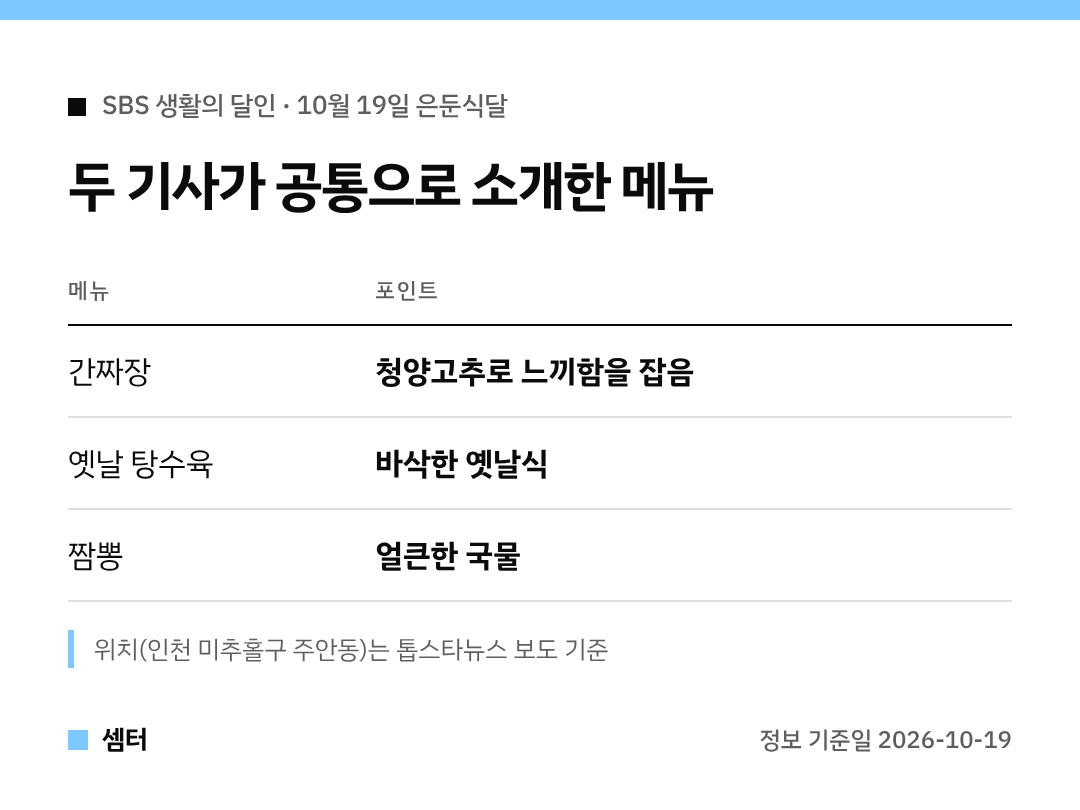
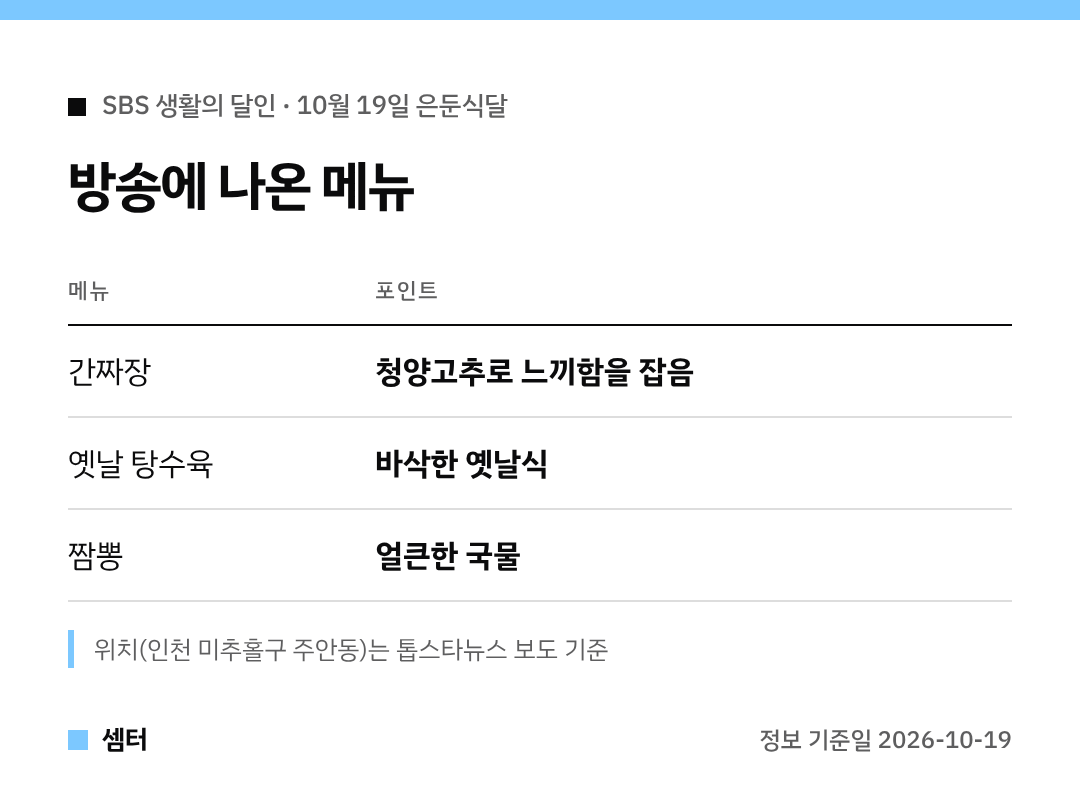
규칙: 검증 과정 설명은 본문에 쓰지 않음 — 기존 방송 맛집 초안에서 해당 문장 정리
Claude-Session: https://claude.ai/code/session_012VYbtjGNz4qxZrnismb5GY

Changed region(s): [[0.0611, 0.1852, 0.6722, 0.2778]]

diff --git a/automation/prompts/writing-guide.md b/automation/prompts/writing-guide.md
@@ -56,7 +56,8 @@
 - **쓰지 않을 것**: 방송 화면 캡처, 기사 사진, 맛 평가("진짜 맛있어요"), 가 본 척, 기사 문장 그대로 베끼기(사실만 우리 말로). 가게 전화번호는 기사 2곳에 같게 나온 경우만.
 - 이미지는 정보 카드(방송일·가게 목록 표)만.
 - **블로그 확인**: 기사에 가게 이름·위치가 없으면 블로그 후기도 찾아본다. 레이더가 방송 맛집마다 네이버 블로그 상위 글을 수집본(`kind: blog`)으로 받아 두고, 더 필요하면 `automation/state/fetch_requests.txt`에 `blog: <지역> <메뉴> <프로그램명>` 한 줄을 넣는다. 블로그는 **기사와 짝지어** 교차 확인에 쓴다(블로그끼리는 같은 출처로 본다). 가게 이름이 기사엔 없고 블로그에만 있으면, 서로 다른 블로거 2명 이상이 같은 이름을 적고 지역·메뉴가 기사와 같을 때만 쓰고 본문에 '블로그 후기 기준'을 밝힌다(claims: quote=블로그, quote2=기사, value_note 에 일치한 블로그 목록). 블로그마다 주소가 다르면 주소는 쓰지 않는다. 협찬·광고 표시 글, 방송 전 날짜 글은 쓰지 않는다. 블로그 문장은 베끼지 않고 사실만 쓴다.
-- **위치를 못 찾았으면 장소를 올리지 않는다**: 가게 이름과 위치가 확인된 가게만 지도 링크를 단다. "지역 + 메뉴" 검색 링크는 달지 않는다(본문에 보도된 지역을 설명하는 건 괜찮다). 확인이 안 되면 그 가게는 지도 링크 없이 "가게 이름은 아직 확인되지 않았어요"로 두거나 글에서 뺀다.
+- **위치를 못 찾았으면 장소를 올리지 않는다**: 가게 이름과 위치가 확인된 가게만 지도 링크를 단다. "지역 + 메뉴" 검색 링크는 달지 않는다(본문에 보도된 지역을 설명하는 건 괜찮다). 확인이 안 되면 그 가게는 이름·지도 없이 지역·메뉴만 쓰거나 글에서 뺀다("확인되지 않았어요" 같은 설명도 쓰지 않는다).
+- **검증 과정은 본문에 쓰지 않는다**: 무엇을 확인 못 했는지, 어느 기사가 무엇을 안 적었는지, 왜 장소를 안 올렸는지는 쓰지 않는다(로그에만 남긴다). 출처는 "○○ 보도 기준" / "블로그 후기 기준"처럼 짧게만.
 - **지도 링크**: 확인된 가게마다 `python3 automation/scripts/map_link.py "<지역> <가게 이름>"`으로 만든 링크를 넣는다. 네이버판은 `[📍 네이버 지도에서 위치 보기](네이버 지도 주소)`, 티스토리판은 카카오맵 주소. 지도 화면 캡처는 넣지 않는다(지도 이미지 저작권).
 - **가게 사진**: 리뷰·블로그·기사 사진은 찍은 사람에게 저작권이 있어서 가져오지 않는다. 대신 발행할 때 네이버 에디터의 **[장소]** 버튼(티스토리는 **[지도]**)으로 가게를 첨부하면 지도·대표 사진·리뷰 링크가 카드로 함께 들어간다. 대기함 카드에 첨부할 가게 이름이 나온다.
 - **가게 이름**: 지역·메뉴는 두 곳 교차 확인이 기본. 이름이 한 매체에만 나오면 "OO 보도 기준 가게 이름은 '…'"처럼 출처를 밝혀 쓴다.

diff --git a/automation/variants/master-life-20261019.tistory.md b/automation/variants/master-life-20261019.tistory.md
@@ -9,7 +9,7 @@ cards:
   t-menu:
     type: table
     kicker: "SBS 생활의 달인 · 10월 19일 은둔식달"
-    title: "두 기사가 공통으로 소개한 메뉴"
+    title: "방송에 나온 메뉴"
     head: ["메뉴", "포인트"]
     rows: [["간짜장", "청양고추로 느끼함을 잡음"], ["옛날 탕수육", "바삭한 옛날식"], ["짬뽕", "얼큰한 국물"]]
     note: "위치(인천 미추홀구 주안동)는 톱스타뉴스 보도 기준"
@@ -21,23 +21,23 @@ sources:
 ---
 간짜장에 청양고추라니, 이 조합 궁금하지 않으세요? 10월 19일 생활의 달인 은둔식달에 나온 인천 노포 중식당 이야기를 모아 봤어요~
 
-![두 기사가 공통으로 소개한 메뉴 표](/assets/cards/master-life-20261019-t-menu.png)
+![방송에 나온 메뉴 표](/assets/cards/master-life-20261019-t-menu.png)
 
 ## 간짜장, 일반 짜장이랑 뭐가 달라요?
 
 간짜장은 물이나 전분물 없이 춘장과 채소를 바로 볶아서 소스를 면과 따로 내 주는 짜장이에요. 그래서 소스가 더 진하고 고소한 편이랍니다.
 
-이번 달인 간짜장은 여기에 청양고추를 더해 느끼함을 잡은 게 특징이에요. 비즈엔터와 톱스타뉴스 두 기사 모두 이 부분을 짚었어요.
+이번 달인 간짜장은 여기에 청양고추를 더해 느끼함을 잡은 게 특징이에요.
 
 ## 같이 나온 메뉴
 
-옛날 탕수육은 바삭한 식감을 살린 옛날식이고, 얼큰한 짬뽕도 함께 소개됐어요. 기본에 충실한 중화요리를 하는 노포라는 평이 공통으로 나왔어요.
+옛날 탕수육은 바삭한 식감을 살린 옛날식이고, 얼큰한 짬뽕도 함께 소개됐어요. 기본에 충실한 중화요리를 하는 노포로 소개됐어요.
 
 ## 어디에 있나요?
 
-비즈엔터는 '인천'까지만, 톱스타뉴스는 인천 미추홀구 주안동이라고 보도했어요. 톱스타뉴스 기준으로는 44년 된 집이래요.
+톱스타뉴스 보도 기준으로 인천 미추홀구 주안동에 있는 44년 된 집이래요.
 
-기사엔 상호가 없지만, 방송 후기 블로그 여러 곳에 '홍성각'이라고 나와 있어요 😊 블로그 후기 기준이니 가기 전에 지도에서 메뉴를 한 번 확인해 보세요.
+상호는 '홍성각'이에요(블로그 후기 기준) 😊 가기 전에 지도에서 한 번 확인해 보세요.
 
 [📍 카카오맵 · 인천 주안 홍성각](https://map.kakao.com/?q=%EC%9D%B8%EC%B2%9C%20%EC%A3%BC%EC%95%88%20%ED%99%8D%EC%84%B1%EA%B0%81)
 

diff --git a/_drafts/saengsaeng-info-20261020.md b/_drafts/saengsaeng-info-20261020.md
@@ -30,9 +30,9 @@ sources:
 
 '가격파괴 Why' 코너에서는 서울 강북구 수유역 근처 돼지갈비집이 나왔어요. 국내산 돼지 양념갈비를 1인분 400g으로 넉넉하게 내주는 곳이에요.
 
-bnt뉴스 보도 기준 가격은 1인분 13,900원이래요. 톱스타뉴스는 가격을 '(?)원'으로 비워 둬서, 가격은 가기 전에 한 번 더 확인해 보시는 게 좋아요!
+bnt뉴스 보도 기준 가격은 1인분 13,900원이래요. 가격은 바뀔 수 있으니 가기 전에 확인해 보세요!
 
-가게 이름은 두 기사에 안 나왔는데요, 방송 후기를 올린 블로그들을 보니 수유동 '백로참숯구이'로 확인돼요(블로그 후기 기준). 여러 블로그가 같은 이름을 적었고, 지역·메뉴도 기사와 같았어요.
+가게 이름은 수유동 '백로참숯구이'예요(블로그 후기 기준).
 
 [📍 네이버 지도에서 백로참숯구이 보기](https://map.naver.com/p/search/%EC%84%9C%EC%9A%B8%20%EA%B0%95%EB%B6%81%EA%B5%AC%20%EB%B0%B1%EB%A1%9C%EC%B0%B8%EC%88%AF%EA%B5%AC%EC%9D%B4)
 
@@ -40,9 +40,9 @@ bnt뉴스 보도 기준 가격은 1인분 13,900원이래요. 톱스타뉴스는
 
 가을 여행지로는 경북 문경이 나왔어요. 문경새재 도립공원 옛길을 걷고, 문경관광사격장에서 사격 체험, 진남역에서 철로자전거까지 타는 코스예요. 단풍철이라 딱이죠 🍁
 
-식사한 곳은 톱스타뉴스 보도에 따르면 문경 점촌동의 족살찌개집이에요. bnt뉴스는 '문경의 한 식당'이라고만 적었어요.
+식사한 곳은 톱스타뉴스 보도 기준 문경 점촌동의 족살찌개집이에요.
 
-블로그 후기들을 보면 이 집은 '한우리식당'이에요(블로그 후기 기준). 블로그마다 적은 주소가 조금씩 달라서, 가기 전엔 지도에서 한 번 더 확인해 주세요~
+이 집은 '한우리식당'이에요(블로그 후기 기준). 가기 전엔 지도에서 위치를 확인해 주세요~
 
 [📍 네이버 지도에서 문경 한우리식당 보기](https://map.naver.com/p/search/%EB%AC%B8%EA%B2%BD%20%ED%95%9C%EC%9A%B0%EB%A6%AC%EC%8B%9D%EB%8B%B9)
 

diff --git a/_drafts/master-life-20261019.md b/_drafts/master-life-20261019.md
@@ -27,7 +27,7 @@ sources:
 
 19일 SBS '생활의 달인' 은둔식달 코너에서는 인천의 간짜장, 옛날 탕수육 달인이 있는 중식당을 소개했어요. 오랜 세월 골목을 지켜 온 노포라고 해요.
 
-두 기사가 공통으로 짚은 메뉴는 이렇게 세 가지예요.
+방송에서 소개된 메뉴는 이렇게 세 가지예요.
 
 - **간짜장**: 청양고추를 넣어 느끼함을 잡은 게 포인트
 - **옛날 탕수육**: 바삭한 식감이 강조된 옛날식
@@ -37,9 +37,9 @@ sources:
 
 ## 위치는 어디예요?
 
-톱스타뉴스 보도에 따르면 인천 미추홀구 주안동에 있는 집이고, 44년 전통이라고 해요. 다른 기사에는 '인천'까지만 나와서, 동네는 이 한 곳 보도 기준이에요.
+톱스타뉴스 보도 기준으로 인천 미추홀구 주안동에 있는 집이고, 44년 전통이라고 해요.
 
-가게 이름은 두 기사 모두 밝히지 않았어요. 대신 방송 후기를 올린 블로그들에서는 인천 주안의 '홍성각'으로 나와요(블로그 후기 기준). 지역과 메뉴(간짜장·옛날 탕수육)가 기사와 같았답니다.
+가게 이름은 인천 주안의 '홍성각'이에요(블로그 후기 기준).
 
 [📍 네이버 지도에서 인천 주안 홍성각 보기](https://map.naver.com/p/search/%EC%9D%B8%EC%B2%9C%20%EC%A3%BC%EC%95%88%20%ED%99%8D%EC%84%B1%EA%B0%81)
 

diff --git a/CLAUDE.md b/CLAUDE.md
@@ -33,6 +33,7 @@
 - **가독성**: 문장마다 줄바꿈, 2~3문장마다 문단을 나눈다(대기함 붙여넣기 본문은 `readable_paragraphs`가 자동 처리). 원고도 한 문단 = 한 생각, 1~3문장.
 - 가게·장소는 클릭하면 바로 열리는 지도 링크(네이버·카카오, 해외는 Google Maps)를 단다. **이름·위치를 확인 못 한 가게는 장소를 올리지 않는다**("지역+메뉴" 검색 링크 금지).
 - 가게 확인은 기사뿐 아니라 블로그 후기도 본다(레이더가 네이버 블로그 수집, 기사 1곳 + 블로그 1곳으로 교차).
+- **검증 과정은 본문에 쓰지 않는다**: "기사로 확인하지 못해 장소를 올리지 않았어요", "두 기사 모두 밝히지 않았어요", "○○는 '인천'까지만 적었어요" 같은 설명은 빼고, 확인된 사실만 쓴다. 출처 표시는 짧게("○○ 보도 기준", "블로그 후기 기준")만. 확인 못 한 가게는 설명 없이 이름·지도 없이 메뉴·지역만 쓴다.
 - 리뷰·블로그 사진은 저작권 때문에 가져오지 않는다. 대신 대기함 카드에 "에디터 [장소] 버튼으로 ○○ 첨부" 안내를 띄운다(지도·대표사진·리뷰가 카드로 들어감).
 
 ## 5. 디자인

diff --git a/_drafts/hometown-6pm-20261020.md b/_drafts/hometown-6pm-20261020.md
@@ -33,7 +33,7 @@ sources:
 
 양송이빵 말고도 양송이쉐이크, 양송이가득미숫가루, 자색군고구마라떼, 까망라떼유, 요거트스무디, 커피류를 판다고 해요. 부여 특산물인 양송이버섯을 빵과 음료에 넣은 게 특징이에요!
 
-가게 이름은 기사에 안 나왔는데요, 방송 뒤 올라온 블로그 후기들에선 '양송이유' 카페로 나와요(블로그 후기 기준).
+카페 이름은 '양송이유'예요(블로그 후기 기준).
 
 [📍 네이버 지도에서 부여 양송이유 보기](https://map.naver.com/p/search/%EB%B6%80%EC%97%AC%20%EC%96%91%EC%86%A1%EC%9D%B4%EC%9C%A0)
 
@@ -42,8 +42,6 @@ sources:
 문경 여행 코너에서는 마성면 신현리의 민물매운탕집이 나왔어요. 직접 담근 고추장으로 국물 맛을 낸다는 점이 강조됐대요.
 
 메뉴는 메기매운탕, 잡어매운탕, 쏘가리매운탕, 도리뱅뱅이에요. 쌀쌀해진 날씨에 얼큰한 매운탕 한 그릇 딱이죠 🔥
-
-이 집은 가게 이름을 기사로 확인하지 못했고, 블로그 한 곳에만 이름이 나와서 장소는 올리지 않았어요.
 
 ## 가기 전에
 

diff --git a/automation/variants/hometown-6pm-20261020.tistory.md b/automation/variants/hometown-6pm-20261020.tistory.md
@@ -31,7 +31,7 @@ sources:
 
 충남 부여 초촌면 추양리의 베이커리카페예요. 부여 특산물 양송이버섯을 빵과 음료에 접목한 곳이에요.
 
-방송 후기 블로그들을 보면 카페 이름은 '양송이유'예요(블로그 후기 기준). 기사엔 이름이 없어서, 가시기 전에 지도에서 한 번 더 확인해 주세요!
+이 카페 상호는 '양송이유'로 알려져 있어요(블로그 후기 기준). 출발 전에 지도에서 위치 체크해 보세요!
 
 [📍 카카오맵 · 부여 양송이유](https://map.kakao.com/?q=%EB%B6%80%EC%97%AC%20%EC%96%91%EC%86%A1%EC%9D%B4%EC%9C%A0)
 
@@ -42,8 +42,6 @@ sources:
 ## 문경에선 얼큰한 민물매운탕
 
 문경 마성면 신현리의 매운탕집은 직접 담근 고추장으로 맛을 낸대요. 메기, 잡어, 쏘가리매운탕에 도리뱅뱅까지 있어요.
-
-이 집 상호는 확인된 곳이 블로그 한 곳뿐이라 위치 안내는 생략했어요~
 
 ## 출발 전 체크
 

diff --git a/_drafts/saengbangsong-today-20261020.md b/_drafts/saengbangsong-today-20261020.md
@@ -31,7 +31,7 @@ sources:
 
 ## 가게 이름과 영업시간
 
-위키트리 보도에 따르면 가게 이름은 '삼순이'이고, 영업시간은 매일 오전 8시부터 오후 10시까지래요. bnt뉴스는 '증평의 한 음식점'이라고만 적어서, 이름과 시간은 이 한 곳 보도 기준이에요. 가시기 전에 지도 앱에서 한 번 더 확인해 보세요!
+위키트리 보도에 따르면 가게 이름은 '삼순이'이고, 영업시간은 매일 오전 8시부터 오후 10시까지래요. 가시기 전에 지도 앱에서 한 번 더 확인해 보세요!
 
 [📍 네이버 지도에서 증평 삼순이 검색](https://map.naver.com/p/search/%EC%A6%9D%ED%8F%89%20%EC%82%BC%EC%88%9C%EC%9D%B4) [📍 카카오맵에서 검색](https://map.kakao.com/?q=%EC%A6%9D%ED%8F%89%20%EC%82%BC%EC%88%9C%EC%9D%B4)
 

diff --git a/_drafts/saengsaeng-info-20261019.md b/_drafts/saengsaeng-info-20261019.md
@@ -32,7 +32,7 @@ sources:
 
 '지금이 딱~ 제철!' 코너는 "쫄깃한 식감의 대명사, 가을 주꾸미"를 주제로 했어요. 나온 곳은 서울 강서구 방화동에 있는 주꾸미 전문 식당이에요.
 
-메뉴는 숯불에 구운 주꾸미와 마늘주꾸미가 두 기사 모두에 공통으로 나와요. 방송에서는 전남 장흥의 수산물 위판장도 찾아가서 주꾸미가 식탁에 오르는 과정까지 보여 줬답니다~
+대표 메뉴는 숯불에 구운 주꾸미와 마늘주꾸미예요. 방송에서는 전남 장흥의 수산물 위판장도 찾아가서 주꾸미가 식탁에 오르는 과정까지 보여 줬답니다~
 
 위키트리 보도에 따르면 가게 이름은 '방화동쭈꾸미마을1997'이에요.
 

diff --git a/automation/variants/saengbangsong-today-20261020.tistory.md b/automation/variants/saengbangsong-today-20261020.tistory.md
@@ -29,7 +29,7 @@ UDT 코너 '2억 빚 갚은 할머니의 짜글이' 편은 충북 증평의 한 
 
 ## 어디예요?
 
-위키트리 보도 기준으로 가게 이름은 '삼순이', 영업시간은 매일 오전 8시~오후 10시예요. 다른 기사에는 이름이 안 나와서, 방송 장면과 지도 사진을 같이 비교해 보시는 게 안전해요.
+위키트리 보도 기준으로 가게 이름은 '삼순이', 영업시간은 매일 오전 8시~오후 10시예요. 가시기 전에 지도에서 한 번 확인해 보세요!
 
 [📍 증평 삼순이 지도 검색](https://map.naver.com/p/search/%EC%A6%9D%ED%8F%89%20%EC%82%BC%EC%88%9C%EC%9D%B4)
 

diff --git a/automation/variants/saengsaeng-info-20261020.tistory.md b/automation/variants/saengsaeng-info-20261020.tistory.md
@@ -33,7 +33,7 @@ sources:
 
 톱스타뉴스 보도에 따르면 식사는 문경 점촌동 족살찌개집에서 했어요. 이 집은 예전에 '생방송투데이'에도 나온 적이 있대요.
 
-상호는 기사엔 없지만 방송 후기 블로그들에선 '한우리식당'으로 나와요. 주소는 블로그마다 조금 달라서 지도에서 확인하고 가세요!
+상호는 '한우리식당'이에요(블로그 후기 기준). 지도에서 위치 확인하고 가세요!
 
 [📍 카카오맵 · 문경 한우리식당](https://map.kakao.com/?q=%EB%AC%B8%EA%B2%BD%20%ED%95%9C%EC%9A%B0%EB%A6%AC%EC%8B%9D%EB%8B%B9)
 

diff --git a/_drafts/youth-voluntary-quit-benefit-2027.md b/_drafts/youth-voluntary-quit-benefit-2027.md
@@ -50,7 +50,7 @@ sources:
 
 ## 빠진 이유 두 가지
 
-기사들이 공통으로 꼽은 이유는 두 가지예요.
+이유는 크게 두 가지예요.
 
 첫째는 돈이에요. 2025 회계연도 고용보험기금은 당기 5920억 원 적자였고, 공공자금관리기금 차입금을 빼면 실업급여 계정의 실질 적자는 5조9933억 원이었대요.
 
